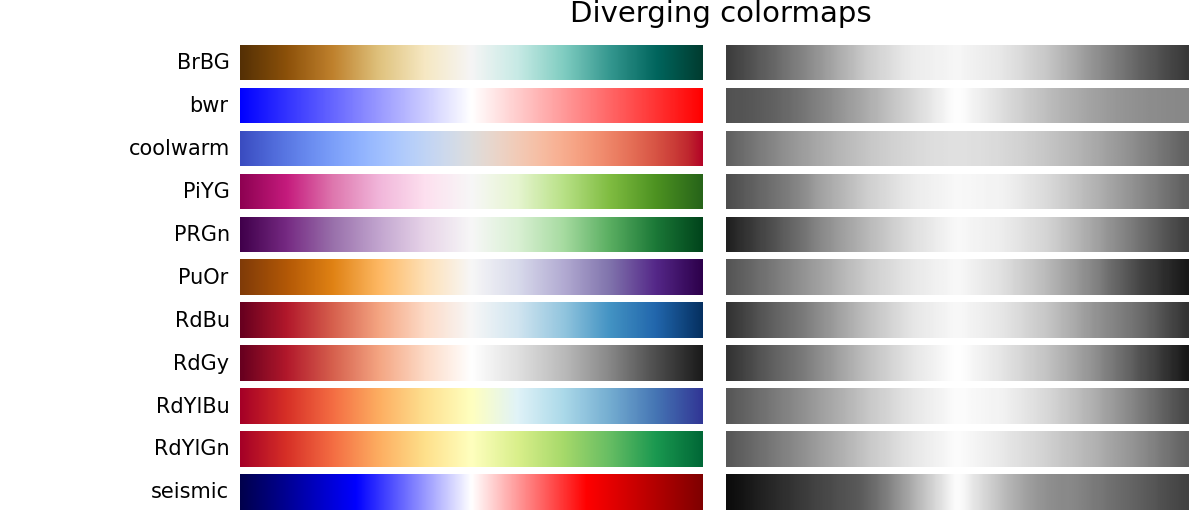
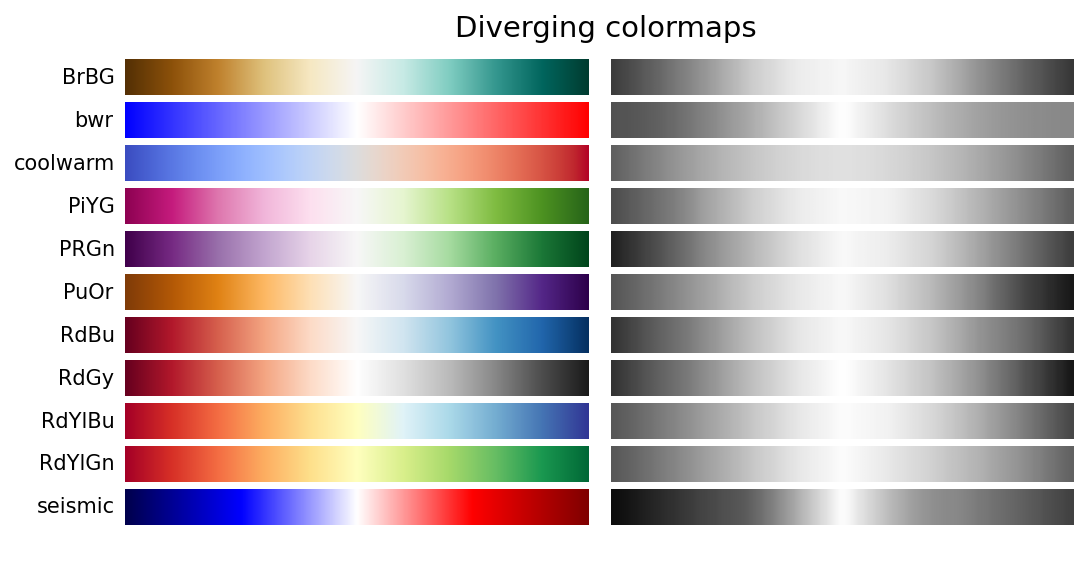
Crop B&W figures at their bbox.

diff --git a/perceptions/bw.py b/perceptions/bw.py
@@ -120,7 +120,8 @@ def plot_color_gradients(cmap_category, cmap_list):
         ax[0].set_axis_off()
         ax[1].set_axis_off()
     # pdb.set_trace()
-    fig.savefig('figures/bw' + cmap_category + '.png', dpi=150)
+    fig.savefig('figures/bw' + cmap_category + '.png', dpi=150,
+                bbox_inches='tight')
     plt.close(fig)
 
 
